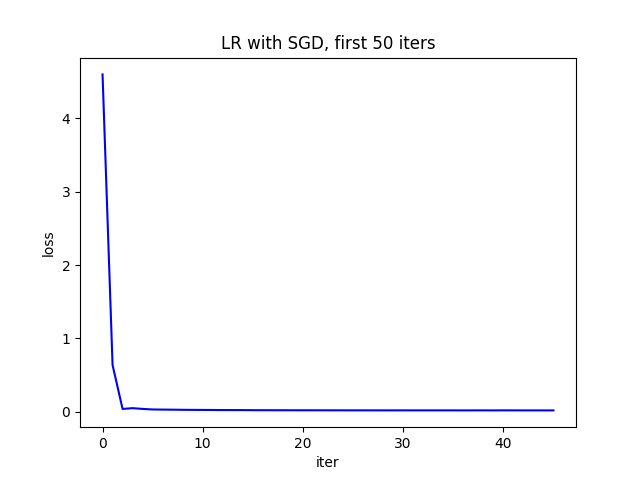
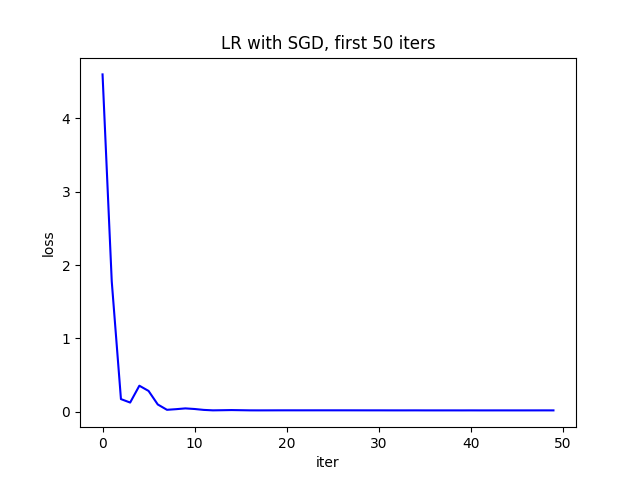
update mini batch GD with NAG

diff --git a/07_GradientDescent/GD_minibatch_NAG_ex2.py b/07_GradientDescent/GD_minibatch_NAG_ex2.py
@@ -59,11 +59,15 @@ def GD_minibatch_NAG(w_init, grad, eta, gamma):
 
     w_last_check = w_init
     N = X.shape[0]
+
+    iter_check_w = 1
+    count = 0
     for it in range(10):
         # shuffle data
         rd_id = np.random.permutation(N)
         i = 0
         while i < N:
+            count += 1
             g = batch_grad(w[-1] - gamma * v[-1], i, rd_id)
 
             v_new = gamma * v[-1] + eta * g
@@ -72,22 +76,26 @@ def GD_minibatch_NAG(w_init, grad, eta, gamma):
             w.append(w_new)
             v.append(v_new)
 
-            w_this_check = w_new
-            if np.linalg.norm(w_this_check - w_last_check) / \
-                    len(w_init) < 1e-3:
-                return (w, len(w))
-            w_last_check = w_this_check
+            if count % iter_check_w == 0:
+                w_this_check = w_new
+                if np.linalg.norm(w_this_check - w_last_check) / \
+                        len(w_init) < 1e-3:
+                    return (w, len(w))
+                w_last_check = w_this_check
             i += n_point
 
     return (w, len(w))
 
 
 w_init = np.array([[2], [1]])
-(w1, it1) = GD_minibatch_NAG(w_init, sgrad, .5, .5)
+(w1, it1) = GD_minibatch_NAG(w_init, sgrad, .3, .9)
 print('Solution found by GD mini-batch: w = ',
       w1[-1].T, ',\nafter %d iterations.' % (it1 + 1))
 
-scale = 1
+if it1 > 200:
+    scale = it1 // 50
+else:
+    scale = 1
 
 fig, ax = plt.subplots()
 fig.set_tight_layout(True)
